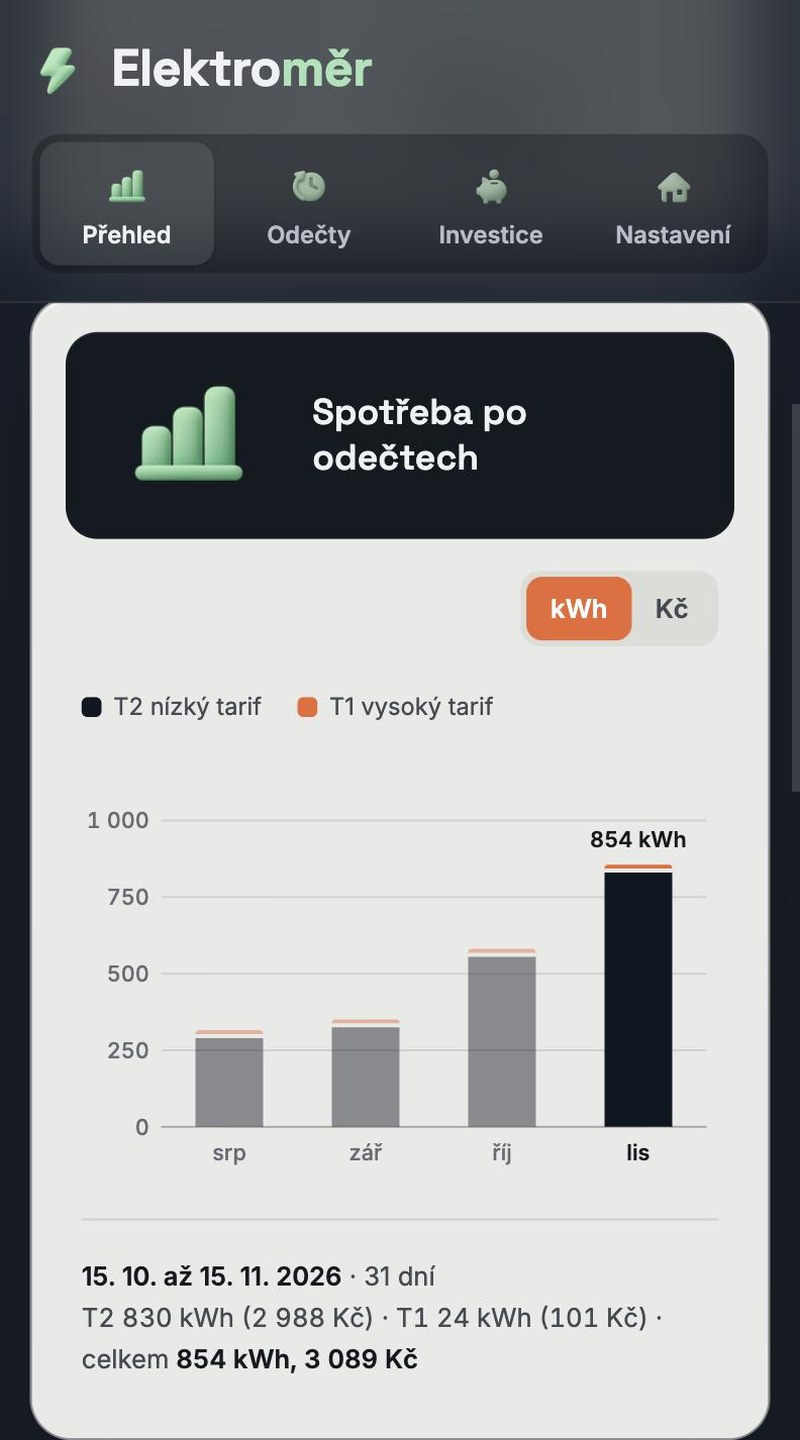
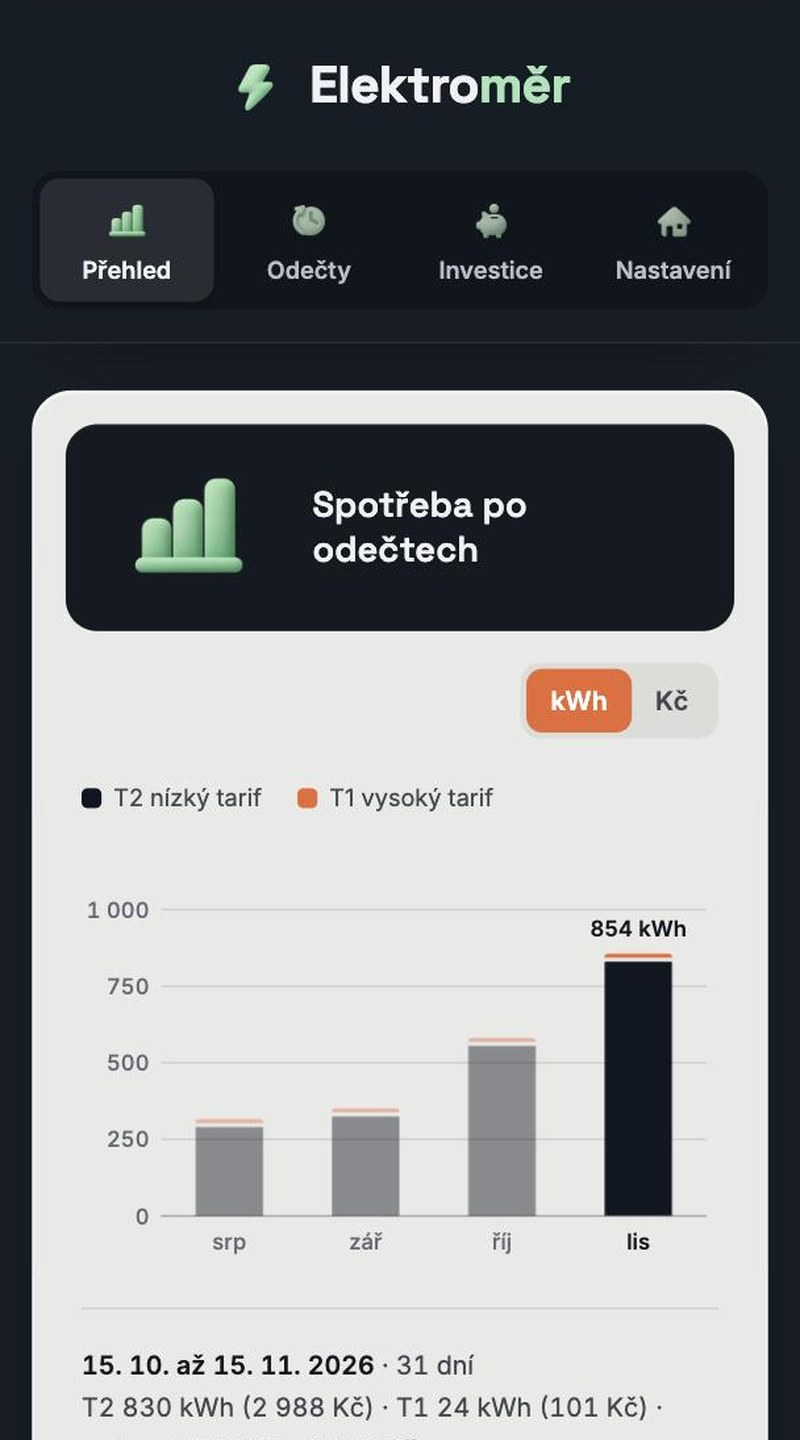
README s přehledem funkcí a novými screenshoty, hlavička bez mezery, ikony bez stínu

diff --git a/src/components/ui.tsx b/src/components/ui.tsx
@@ -36,7 +36,7 @@ export function Icon({ name, size, className = "" }: { name: string; size: numbe
 export function Banner({ icon, children }: { icon: string; children: ReactNode }) {
   return (
     <div className="-mx-2 -mt-3 mb-0.5 flex min-w-0 flex-wrap items-center gap-x-[18px] gap-y-3 rounded-2xl bg-panel py-2 pr-5 pl-[18px] text-on-dark shadow-[inset_0_1px_0_rgb(255_255_255/0.06)]">
-      <Icon name={icon} size={88} className="drop-shadow-[0_10px_14px_rgb(0_0_0/0.45)]" />
+      <Icon name={icon} size={88} />
       <div className="min-w-0 flex-1 basis-[calc(100%-110px)]">{children}</div>
     </div>
   );

diff --git a/src/index.css b/src/index.css
@@ -89,6 +89,7 @@ input[type="date"]::-webkit-date-and-time-value {
     margin: 0 calc(-1 * var(--gr)) 0 calc(-1 * var(--gl));
     padding: 28px var(--gr) 16px var(--gl);
     background: var(--color-page);
+    box-shadow: 0 -8px 0 var(--color-page);
     border-bottom: 1px solid transparent;
     transition: border-color 200ms ease;
   }

diff --git a/README.md b/README.md
@@ -15,6 +15,15 @@ Běží jako Claude Artifact. Odečty ukládá do databáze artifactu a stav z f
 
 Hodnoty na obrázcích jsou vymyšlené.
 
+## Co umí
+
+- **Odečet z fotky.** Vyfotíte displej elektroměru, stavy T1 a T2 se předvyplní a před uložením je potvrdíte. Jde zadat i ručně.
+- **Přehled.** Poslední stav, spotřeba a cena za období, změna proti minulému, graf po odečtech v kWh nebo Kč a průměr na den.
+- **Zálohy.** Porovnání zaplacených záloh se skutečnou spotřebou a odhad přeplatku nebo nedoplatku za rok.
+- **Výhled.** Odhad spotřeby na dalších 12 měsíců podle spotřeby mimo topení a běžného průběhu topné sezóny.
+- **Odečty.** Seznam všech odečtů s cenou, pruhem spotřeby a možností úpravy.
+- **Investice.** Orientační návratnost devíti úsporných technologií, seřazená podle výhodnosti vůči životnosti.
+
 ## Technologie
 
 React 19, TypeScript, Tailwind CSS 4 a Vite.
